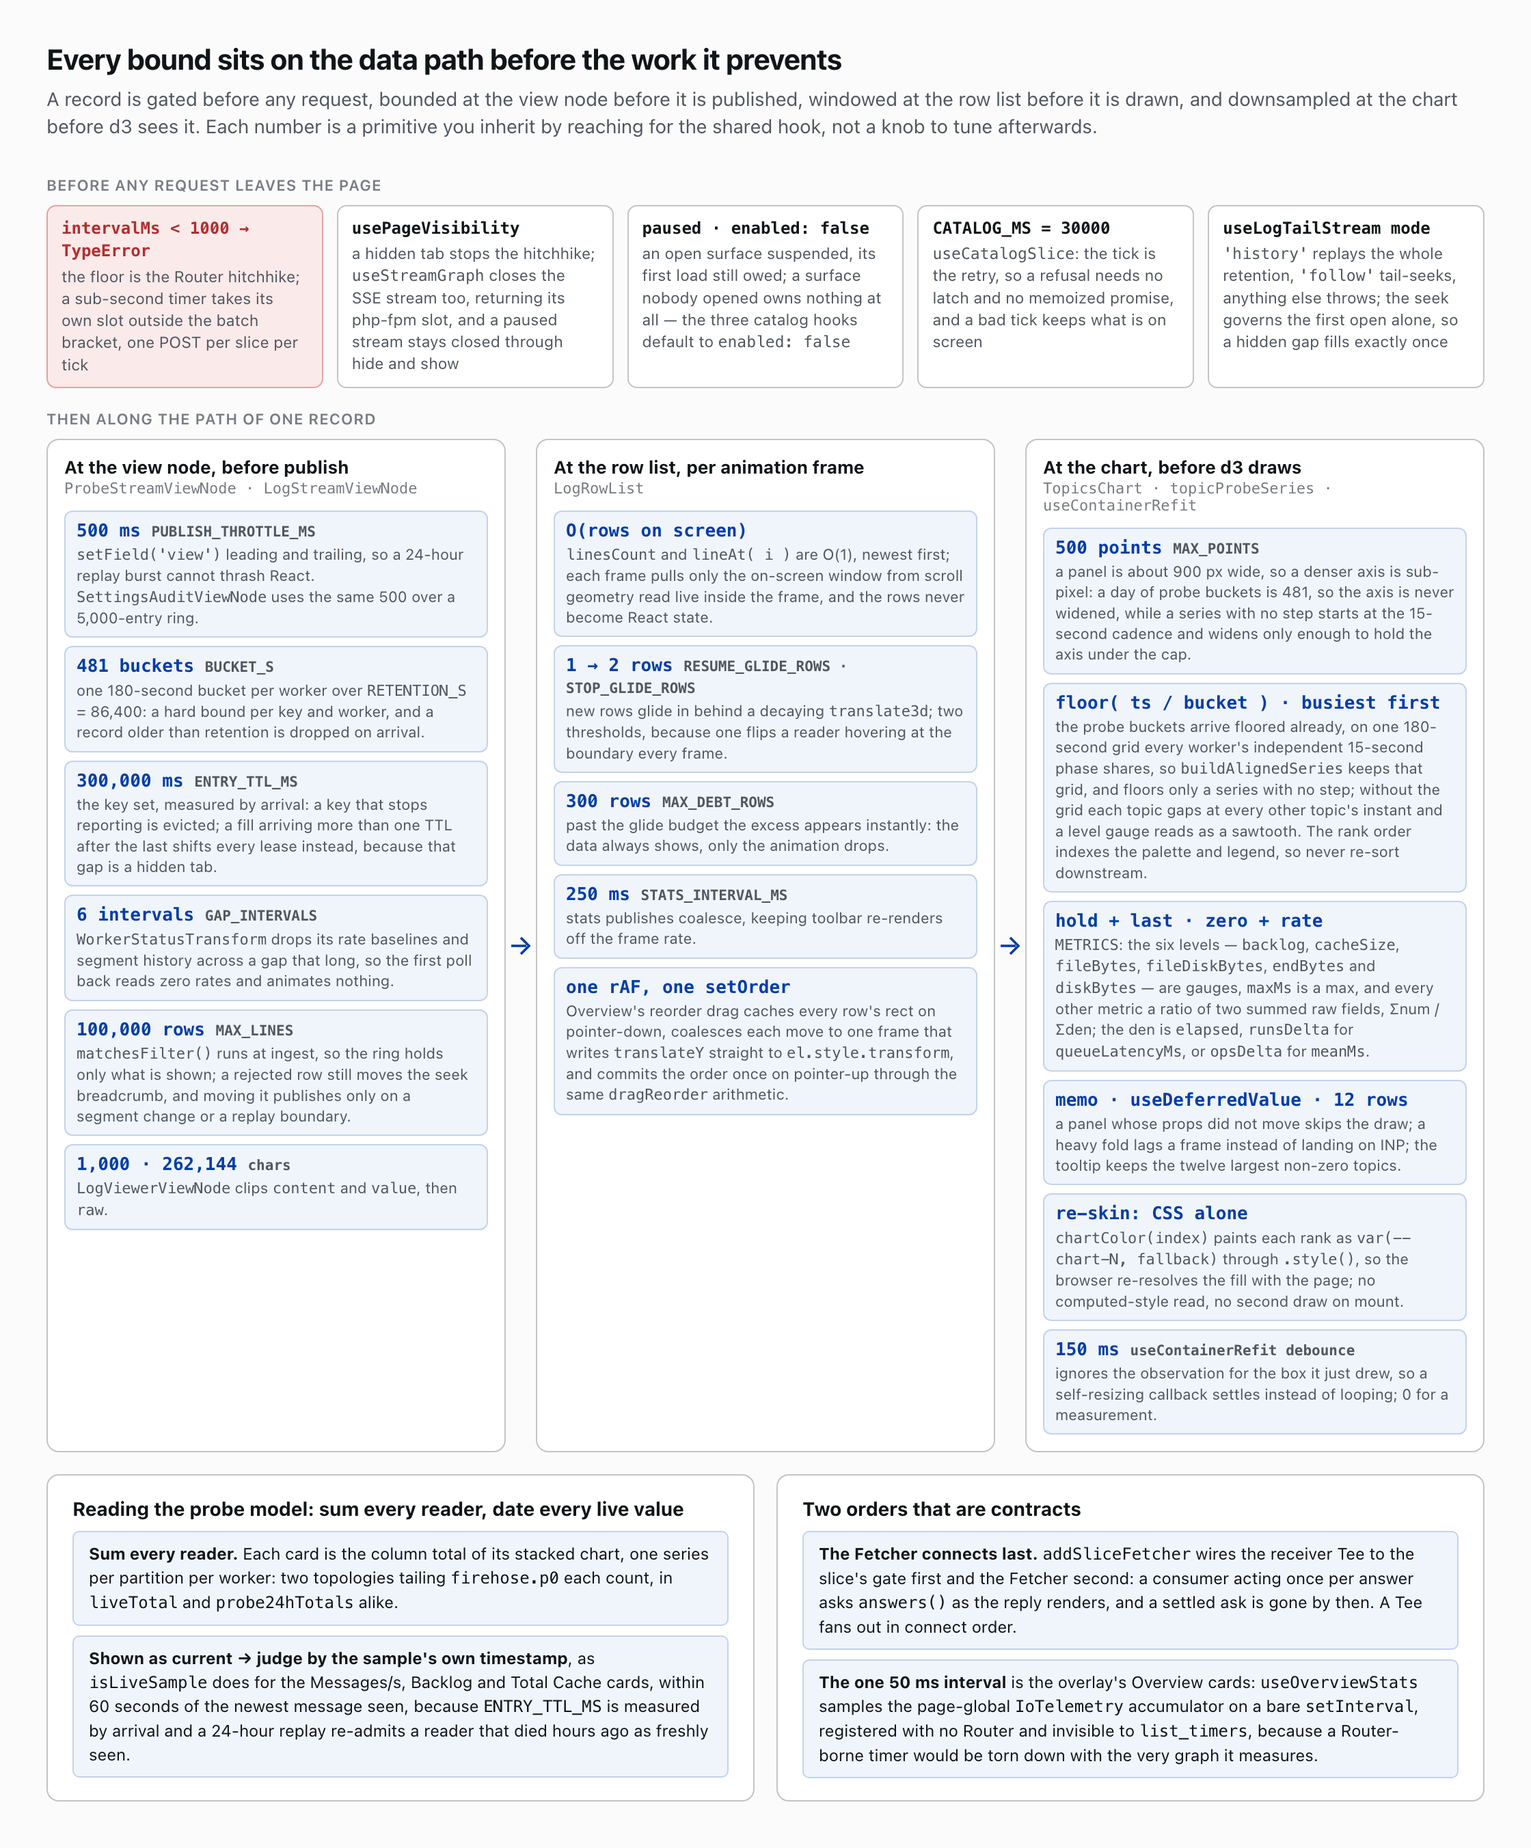
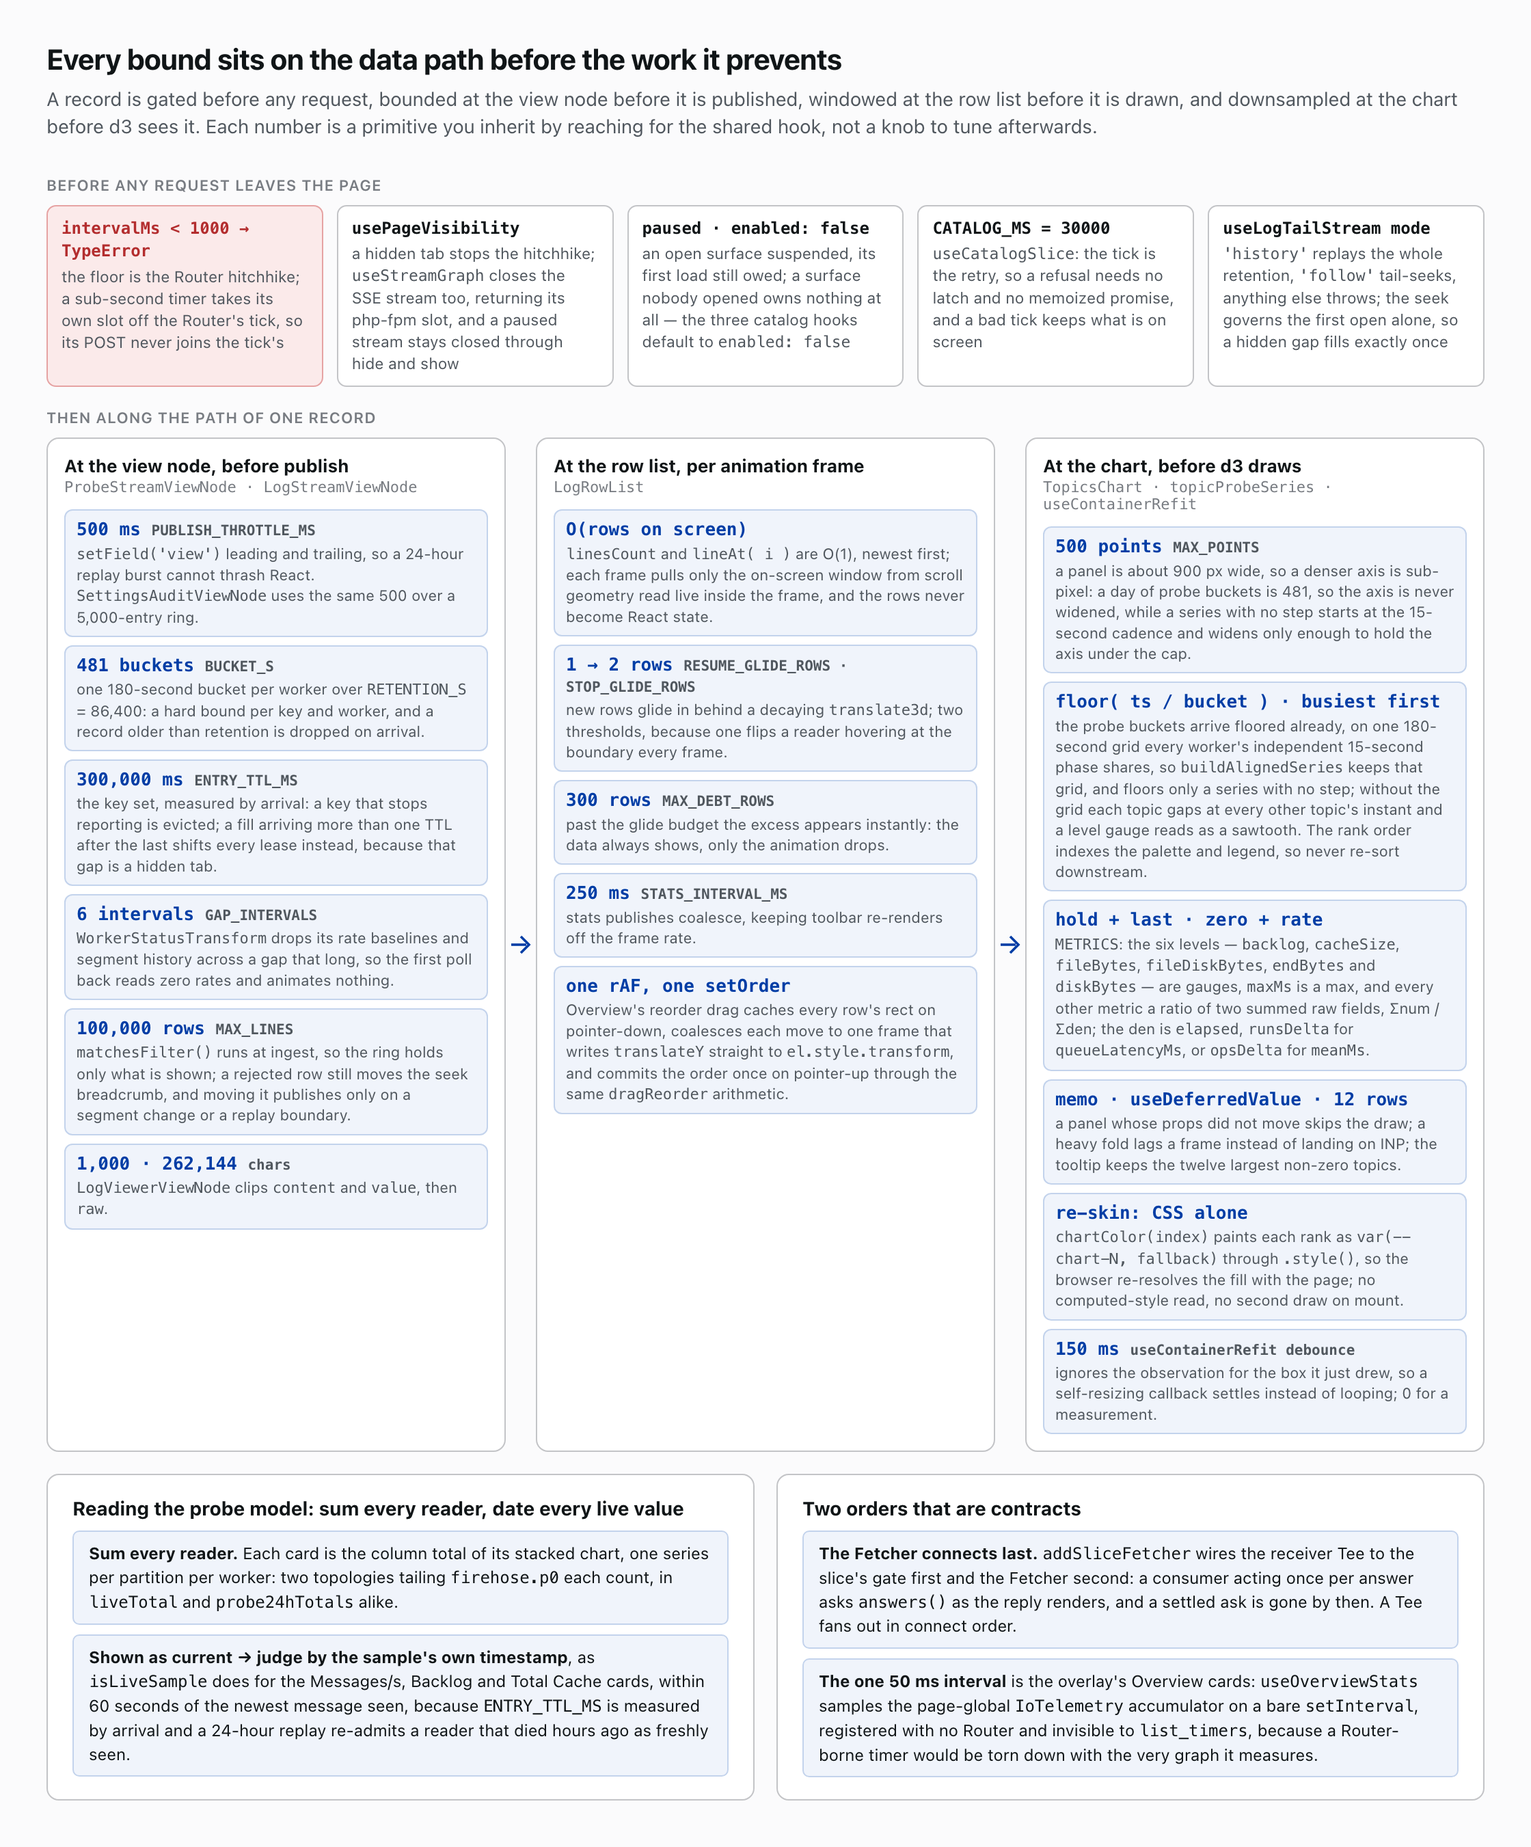
fix(runtime): answer the batching review
Comments and two diagrams still said a slice POSTs on its own; one
POST now carries a task's sends. The PHP timer looks the Router's
interval up only in router mode, a pack failure on an empty batch
settles, four tests restore the clock they froze, and the timer and
crawler tests pin the tolerance and the retune they claim to.

Tested: nodes jest 6626/6626, PHP 7185 (2 skipped), Timer 75,
Crawler 110; ELN jest 1682/1682; example 55/55; intelligence 71/71;
lint:js, lint:php, lint:phpstan, reorder and lint-docs clean.

diff --git a/docs/img/wd-one-tick-one-post.html b/docs/img/wd-one-tick-one-post.html
@@ -36,7 +36,7 @@
 
 <div class="hop" data-arrow="0,3" data-cap="lock()" data-span="0,3"><span class="n">1</span><span class="mono">RouterNode.fireCb()</span> opens the bracket: <span class="mono">_http.lock()</span>, so every <span class="mono">fill()</span> reaching <span class="mono">_http</span> buffers instead of posting.</div>
 
-<div class="hop" data-arrow="0,1" data-cap="notifyTimer()" data-span="0,3"><span class="n">2</span><span class="mono">notifyTimer()</span> calls each TIMER registrant's <span class="mono">fireCb()</span> directly. A cadence of exactly 1,000 ms fires every tick; above it the Timer throttles to its interval on the shared wall-clock grid (ADR-17), so two surfaces on one cadence meet on the same tick.</div>
+<div class="hop" data-arrow="0,1" data-cap="notifyTimer()" data-span="0,3"><span class="n">2</span><span class="mono">notifyTimer()</span> calls each TIMER registrant's <span class="mono">fireCb()</span> directly. A cadence of exactly 1,000 ms fires on every tick at least 0.9 s after its last fire; above it the Timer throttles to its interval on the shared wall-clock grid (ADR-17), so two surfaces on one cadence meet on the same tick.</div>
 
 <div class="hop" data-arrow="1,2" data-cap="trigger ×3" data-span="1,3"><span class="n">3</span>The Tee fans the tick to the three Fetchers. A Fetcher reads nothing off its trigger: type, VALUE and addressing are ignored.</div>
 
@@ -65,8 +65,8 @@
     <div class="chip" style="margin-bottom:0"><b><span class="mono">pollNow()</span>:</b> marks the poll due and runs the Router's tick, so a filter change refreshes inside the bracket without waiting out the cadence.</div>
   </div>
   <div class="callout">
-    <h4>Below 1,000 ms the batch is gone</h4>
-    <p><span class="mono">useBatchedPoll</span> throws a <span class="mono">TypeError</span> naming the timer for any <span class="mono">intervalMs</span> under 1,000, because that floor is <span class="mono">TimerNode</span>'s own hitchhike threshold. A sub-second timer takes a <span class="mono">setInterval</span> slot of its own, outside the lock/flush bracket: one POST per slice per tick and nothing batched. Sub-second work rides <span class="mono">useRouterTick</span>, a passenger on the Router's own tick.</p>
+    <h4>Below 1,000 ms the poll leaves the tick's batch</h4>
+    <p><span class="mono">useBatchedPoll</span> throws a <span class="mono">TypeError</span> naming the timer for any <span class="mono">intervalMs</span> under 1,000, because that floor is <span class="mono">TimerNode</span>'s own hitchhike threshold. A sub-second timer takes a <span class="mono">setInterval</span> slot of its own, off the Router's tick and its wall-clock grid, so its POST never joins the tick's. Sub-second work rides <span class="mono">useRouterTick</span>, a passenger on the Router's own tick.</p>
     <p>A mount opening a bracket of its own would make the tick pay for a second POST, which is why <span class="mono">useBatchedPoll</span> opens none.</p>
   </div>
 </div>

diff --git a/src/shared/hooks/useBatchedPoll.js b/src/shared/hooks/useBatchedPoll.js
@@ -139,18 +139,17 @@ function syncTimer( timer, isPageVisible, paused, intervalMs, enabled = true ) {
  * @param {boolean}                          [opts.paused]    Suspend polling while true (stops the Timer hitchhike, like a hidden tab); going false polls at once, then resumes the cadence. A paused mount STILL delivers its one first load — see `enabled` for the gate that does not.
  * @param {boolean}                          [opts.enabled]   False costs nothing at all: no first load, no timer. `paused` suspends a surface that is open; this is for one that was never opened. Flipping it true delivers the first load then.
  * @param {boolean}                          [opts.passenger] True to clip onto a backbone somebody else owns — a poll that is a PART of a page rather than its graph. The owner keeps Reset Graph and the full rebuild; a passenger re-attaches when the backbone comes back.
- * @param {number}                           opts.intervalMs  Poll cadence in ms, REQUIRED and >= 1000 — TimerNode's hitchhike threshold, so the tick stays inside the lock/flush bracket. 1000 rides every router tick; above that `fireCb` throttles to the interval against the shared wall-clock grid (ADR-17), so two surfaces on one cadence meet on the same tick and share the POST. Changing it re-arms the Timer.
+ * @param {number}                           opts.intervalMs  Poll cadence in ms, REQUIRED and >= 1000 — TimerNode's hitchhike threshold, so the tick stays inside the lock/flush bracket. 1000 rides every router tick at least 0.9s after its last fire; above that `fireCb` throttles to the interval against the shared wall-clock grid (ADR-17), so two surfaces on one cadence meet on the same tick and share the POST. Changing it re-arms the Timer.
  * @return {{interpreterRef: {current: ?CommandInterpreterNode}, pollNow: () => void}} A ref to the live interpreter, and `pollNow()` — fire the batched poll tick off-cadence.
  * @throws {TypeError} When `intervalMs` is absent or below the 1000ms floor.
  */
 export function useBatchedPoll( opts ) {
 	// @longform
 	// Required, and >= 1000, which is TimerNode's own hitchhike threshold.
-	// The batch IS the lock/flush bracket the Router puts around
-	// `notifyTimer`, so only a router-hitchhiking timer sits inside it; a
-	// sub-second value takes an own setInterval slot firing outside the
-	// bracket, which is one POST per slice per tick and no batch at all.
-	// Sub-second polling belongs to `useRouterTick`. The floor also makes
+	// A sub-second value takes an own setInterval slot, off the Router's
+	// tick and its wall-clock grid (ADR-17), so its POST never joins the
+	// tick's with the page's other polls. Sub-second polling belongs to
+	// `useRouterTick`. The floor also makes
 	// arming a plain `setTimer( intervalMs )` with no branch: a bare
 	// `setTimer()` takes its interval from the Router and would discard the
 	// caller's cadence without a word.

diff --git a/src/runtime/__tests__/fetcher-node.test.js b/src/runtime/__tests__/fetcher-node.test.js
@@ -252,8 +252,8 @@ test( 'keeps the inherited command() minting helper', async () => {
 
 // A one-shot rides the tick like everything else: it holds its arguments until
 // the next fan-out, sends once, and has nothing to say on the ticks between.
-// Without this a mutation would have to fire off-cadence, outside the router's
-// lock/flush bracket — its own POST, which is what the batch exists to avoid.
+// Without this a mutation would have to fire off-cadence, from its callback's
+// task — a POST apart from the tick's, which is what the batch exists to avoid.
 test( 'a function command_args returning null sends NOTHING that tick', () => {
 	const f = new FetcherNode();
 	f.arguments = [ 'save:in', 'save' ];
@@ -995,7 +995,7 @@ describe( 'FetcherNode — an ask parked for want of a session', () => {
 		timer.connectNode( 'kakapo-6610:fetch' );
 		timer.setTimer( 1000 );
 		keepUnsignedDue( timer );
-		jest.spyOn( Core, 'now' ).mockReturnValue( 1792400021.4 );
+		const now = jest.spyOn( Core, 'now' ).mockReturnValue( 1792400021.4 );
 
 		router.fireCb();
 		expect( timer.fireCount ).toBe( 1 );
@@ -1009,6 +1009,7 @@ describe( 'FetcherNode — an ask parked for want of a session', () => {
 		} ) );
 		await ensureSession();
 		await nextTask();
+		now.mockRestore();
 
 		const asked = wire.batches
 			.flat()

diff --git a/src/topology-console/hooks/__tests__/useTopologyCatalog.test.js b/src/topology-console/hooks/__tests__/useTopologyCatalog.test.js
@@ -195,13 +195,14 @@ describe( 'useTopologyCatalog', () => {
 		await settle();
 		replyFor.mockClear();
 		// A frozen clock keeps the 10s grid boundary out of reach of the tick.
-		jest.spyOn( Core, 'now' ).mockReturnValue( 1792400007.25 );
+		const now = jest.spyOn( Core, 'now' ).mockReturnValue( 1792400007.25 );
 		Core.node( CATALOG_NODE ).markDue();
 
 		act( () => result.current.reload() );
 		await settle();
 		act( () => Core.node( names.ROUTER ).fireCb() );
 		await settle();
+		now.mockRestore();
 
 		expect( replyFor ).toHaveBeenCalledTimes( 1 );
 	} );
@@ -209,7 +210,7 @@ describe( 'useTopologyCatalog', () => {
 	it( 'reload() after a cadence tick re-fires no 1s hitchhiker', async () => {
 		const { result } = mountCatalog();
 		await settle();
-		jest.spyOn( Core, 'now' ).mockReturnValue( 1792400011.62 );
+		const now = jest.spyOn( Core, 'now' ).mockReturnValue( 1792400011.62 );
 		const uptime = new TimerNode();
 		uptime.name = 'uptime-probe:7731';
 		uptime.sink = { fill: () => {} };
@@ -219,6 +220,7 @@ describe( 'useTopologyCatalog', () => {
 
 		act( () => result.current.reload() );
 		await settle();
+		now.mockRestore();
 
 		expect( uptime.fireCount ).toBe( 1 );
 		expect( Core.node( CATALOG_NODE ).fireCount ).toBe( catalogFires + 1 );

diff --git a/docs/img/wrd-load-bounds.html b/docs/img/wrd-load-bounds.html
@@ -28,7 +28,7 @@
 
 <div class="band">before any request leaves the page</div>
 <div class="gates">
-  <div class="gate red"><b>intervalMs &lt; 1000 → TypeError</b>the floor is the Router hitchhike; a sub-second timer takes its own slot outside the batch bracket, one POST per slice per tick</div>
+  <div class="gate red"><b>intervalMs &lt; 1000 → TypeError</b>the floor is the Router hitchhike; a sub-second timer takes its own slot off the Router's tick, so its POST never joins the tick's</div>
   <div class="gate"><b>usePageVisibility</b>a hidden tab stops the hitchhike; <span class="mono">useStreamGraph</span> closes the SSE stream too, returning its php-fpm slot, and a paused stream stays closed through hide and show</div>
   <div class="gate"><b>paused · enabled: false</b>an open surface suspended, its first load still owed; a surface nobody opened owns nothing at all — the three catalog hooks default to <span class="mono">enabled: false</span></div>
   <div class="gate"><b>CATALOG_MS = 30000</b><span class="mono">useCatalogSlice</span>: the tick is the retry, so a refusal needs no latch and no memoized promise, and a bad tick keeps what is on screen</div>

diff --git a/src/runtime/http-out-node.js b/src/runtime/http-out-node.js
@@ -80,10 +80,11 @@ const posted = [];
 /**
  * Run `callback` on a task of its own, after every microtask of this one.
  *
- * A channel message rather than a 0ms timeout, because a hidden tab throttles
- * timers to one a second, and to one a minute once it has been hidden five
- * minutes; a held send must not wait that out. React's scheduler posts its
- * work the same way.
+ * A channel message rather than a 0ms timeout, because a hidden tab runs
+ * timeouts at most once a second, and Chrome, once the tab has been hidden
+ * five minutes, runs one set from a chain of timers at most once a minute; a
+ * held send must not wait that out. React's scheduler posts its work the same
+ * way.
  *
  * @param {function(): void} callback Runs once, on the next task.
  */
@@ -251,7 +252,7 @@ export class HttpOutNode extends Node {
 			this.largestMsgSent = Math.max( this.largestMsgSent, size );
 		}
 		if ( 0 === sendable.length ) {
-			return new Promise( () => raise( unpacked ) );
+			return Promise.resolve().then( () => raise( unpacked ) );
 		}
 		return new Promise( ( resolve ) =>
 			resolve( this.client.postBatch( sendable, packed ) )

diff --git a/src/runtime/fetcher-node.js b/src/runtime/fetcher-node.js
@@ -68,10 +68,10 @@ const ASK_EXPIRY_S = 120;
  *
  * `send()` is the other way in, for a caller with an answer to wait on: it parks
  * arguments the next trigger puts on the wire, so a mutation rides the same
- * batch as everything else instead of minting its own POST. It also parks the
- * SUBJECT the ask is about, which rides on FROM so the answer comes back
- * naming it — that is how ONE Fetcher serves many rows with nothing correlated
- * (ADR-7). `withdraw()` takes every ask back without sending a new one.
+ * batch as everything else instead of a POST apart from the tick's. It also
+ * parks the SUBJECT the ask is about, which rides on FROM so the answer comes
+ * back naming it — that is how ONE Fetcher serves many rows with nothing
+ * correlated (ADR-7). `withdraw()` takes every ask back without sending a new one.
  *
  * `fill()` IGNORES a trigger's payload — every message that is not a REPLY is
  * just a trigger. The command is configured on the node, never read from the

diff --git a/src/runtime/timer-node.js b/src/runtime/timer-node.js
@@ -345,13 +345,14 @@ export class TimerNode extends Node {
 	}
 
 	/**
-	 * The caller just did this poll itself, so the next one owes a FULL
-	 * interval. The inverse of `markDue()`.
+	 * The caller just did this poll itself, so the next one waits out an
+	 * interval rather than firing on the next tick. The inverse of `markDue()`.
 	 *
 	 * Not `lastFireTime = now`: the next boundary after an arbitrary instant is
 	 * anywhere in `(0, interval]`, so arming just before one fires again a tick
 	 * later — the duplicate request this exists to suppress. It counts from the
-	 * NEXT boundary instead: a full interval at minimum, still on the grid. A
+	 * NEXT boundary instead: a timer above the tick waits a full interval at
+	 * minimum, still on the grid. A
 	 * timer at the tick's own cadence measures elapsed time rather than the
 	 * grid, so its next fire waits until 0.9s past that boundary, at least
 	 * nine tenths of its interval.

diff --git a/src/runtime/router-node.js b/src/runtime/router-node.js
@@ -37,9 +37,10 @@ import names from './reserved-node-names.json';
  *
  * The value is load-bearing at both ends. `TimerNode.setTimer()` sends any
  * interval of at least 1000ms to the Router rather than to a slot of its own,
- * and `TimerNode.fireCb()` throttles a hitchhiker above it to its grid and one
- * at exactly this cadence only against an extra tick under 0.9s after its
- * last fire — so a poller armed at this cadence fires on every cadence tick.
+ * and `TimerNode.fireCb()` throttles a hitchhiker above it to its grid, and
+ * one at exactly this cadence skips any tick under 0.9s after its last fire —
+ * so a poller armed at this cadence fires on every cadence tick except one
+ * that follows a late tick by less than 0.9s.
  */
 export const ROUTER_TICK_MS = 1000;
 

diff --git a/src/shared/helpers/__tests__/armTimer.test.js b/src/shared/helpers/__tests__/armTimer.test.js
@@ -73,7 +73,7 @@ it( 'asks no Router tick for a sub-second timer on a slot of its own', () => {
 } );
 
 it( 'an out-of-tick pollTimerNow after a cadence tick re-fires no 1s poller', async () => {
-	jest.spyOn( Core, 'now' ).mockReturnValue( 1792400003.48 );
+	const now = jest.spyOn( Core, 'now' ).mockReturnValue( 1792400003.48 );
 	timer.setTimer( SLOW_MS );
 	const egret = Core.node( names.COMMAND_INTERPRETER ).makeNode(
 		'Timer',
@@ -89,6 +89,7 @@ it( 'an out-of-tick pollTimerNow after a cadence tick re-fires no 1s poller', as
 
 	pollTimerNow( timer );
 	await Promise.resolve();
+	now.mockRestore();
 
 	expect( fires ).toBe( 2 );
 	expect( egretFires ).toBe( 1 );

diff --git a/src/topology-console/hooks/useCatalogs.js b/src/topology-console/hooks/useCatalogs.js
@@ -144,8 +144,8 @@ export function useVaults( { enabled = false } = {} ) {
  *
  * `open( name )` names what is wanted, the next tick asks for it, and the answer
  * arrives as published state. A promise-returning `fetch( name )` cannot: minted
- * from a React callback, it is a POST of its own, outside the router's
- * lock/flush bracket and batched with nothing.
+ * from a React callback, it leaves with that callback's task rather than in
+ * the router's tick, so its POST never joins the tick's.
  *
  * Being a read, it retries — an unanswered ask is what leaves an editor open on
  * half a page. Being answered is what stops it, refusal included, so a topology

diff --git a/examples/example-ai-newsletter/src/dashboard/hooks/usePublisherInsightsGraph.js b/examples/example-ai-newsletter/src/dashboard/hooks/usePublisherInsightsGraph.js
@@ -48,8 +48,8 @@ const SERVER = 'insights-demo';
  * Poll cadence, in milliseconds. All three cards read one committed offsetlog
  * snapshot, which moves only when the pipeline commits, so thirty seconds is a
  * retry rather than a feed. `useBatchedPoll` throws below 1000ms: under that
- * floor a Timer takes its own `setInterval` slot and fires outside the Router's
- * lock and flush, which costs one POST per slice instead of one per tick.
+ * floor a Timer takes its own `setInterval` slot, off the Router's tick, and its
+ * POST never joins the tick's.
  */
 const DEFAULT_INTERVAL_MS = 30000;
 
